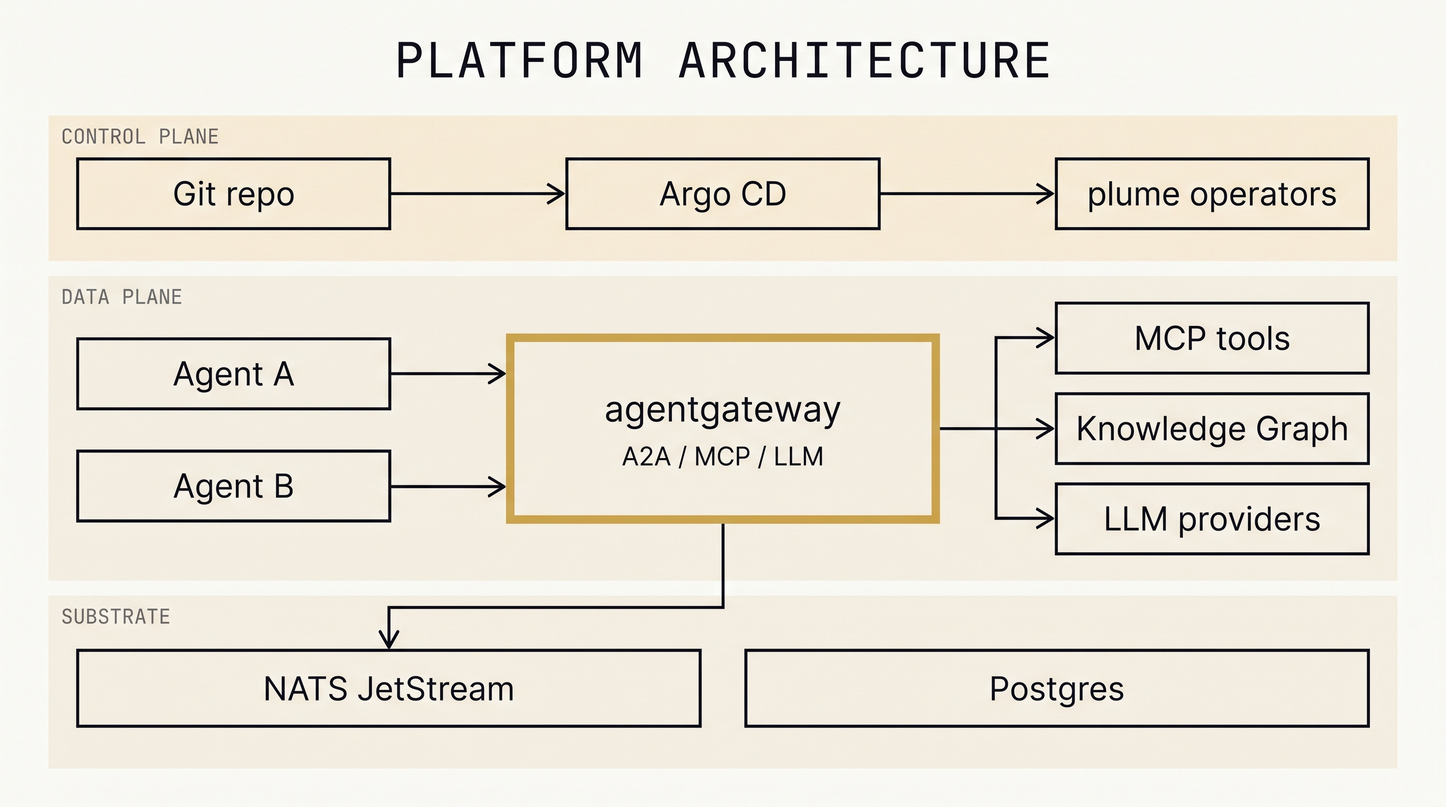
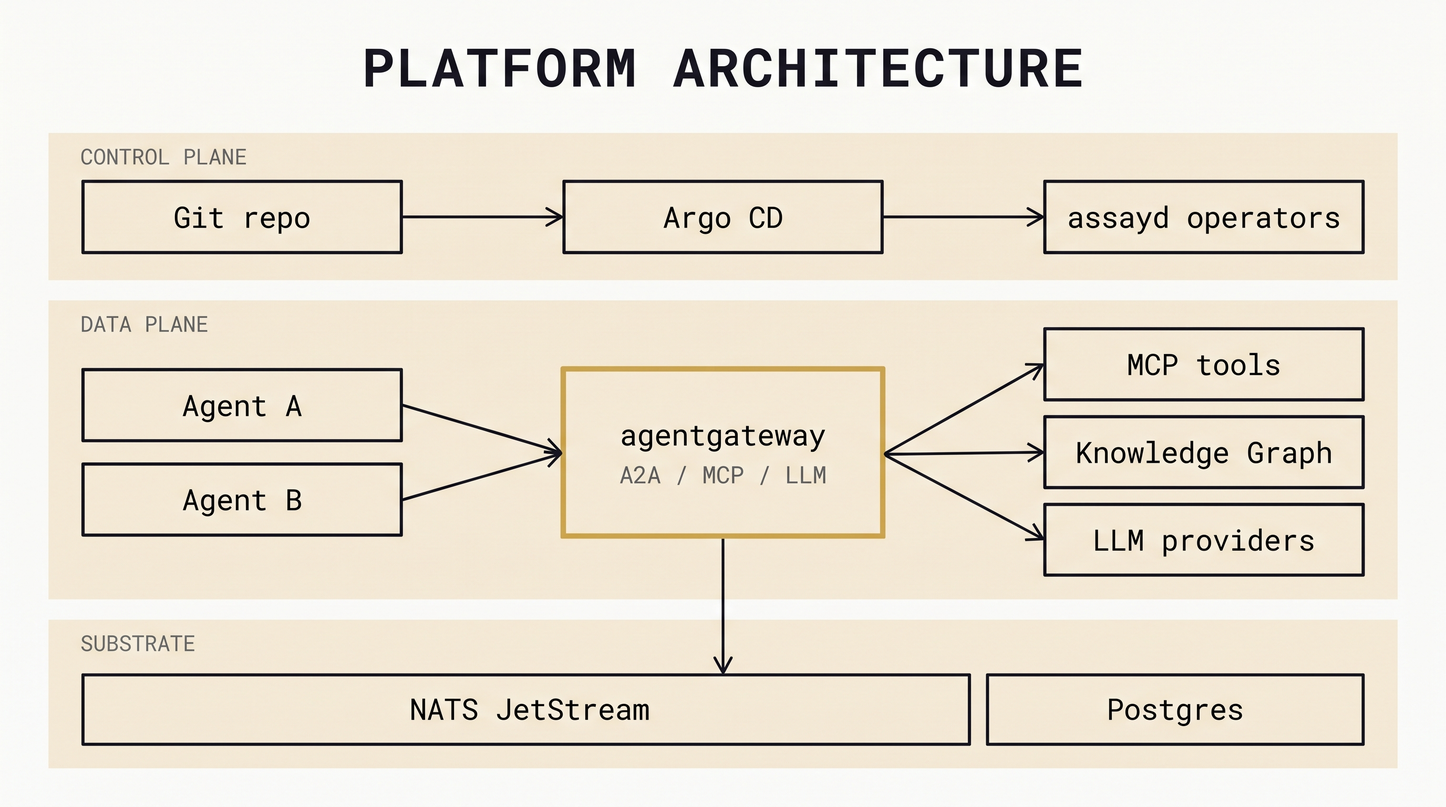
docs: regenerate the two stale plates, and fix what the audit found
Diagrams. Plates 01 and 07 said "plume" in the pixels. Regenerated with the
same tool that made the original set -- the backlot visualizer's nano_banana_pro
route, since the visualizer CLI's Gemini key still returns
API_KEY_SERVICE_BLOCKED exactly as prompts.md recorded -- from the prompts that
were already corrected at the rename. Both verified by opening them: plate 01
reads "assayd operators", plate 07 reads "the only assayd code". webp variants
rebuilt at 1600px to match the other six.

The warning block I had added to docs/diagrams/README.md is deleted rather than
updated. It was internal working notes -- a defect report and a two-option
decision request -- published in a public repo, and it stopped being true the
moment the plates were re-rendered. A short provenance line replaces it. The
risk row it justified in §19 is removed for the same reason: the risk is closed.

Then /audit-docs found three things I had missed by fixing §18 and stopping.

Line 5 -- the document's own Status field, the first metadata any reader sees --
still said "design phase complete · 27/27 component designs approved ...
Implementation may begin". Two claims false: designs 02 and 03 are both
"critique pending -- not approved" by their own Status lines, and there are 32
ADRs, not 26.

§20 said "Every claim above is backed by an ADR and a critique-passed design."
Critique-passed is not approved, and the two most central designs are neither.
[…]

Changed region(s): [[0.0312, 0.0312, 0.9688, 0.9375]]

diff --git a/docs/architecture.md b/docs/architecture.md
@@ -2,7 +2,7 @@
 
 > **assayd** is the project's permanent name, not a codename — ADR-0001 Amendment 1 records the rename from the "plume" working title (and "graphene" before that) as **done**, with `assayd.dev` authoritative and the API group. An earlier version of this line still called it "a neutral internal codename … rename before any public release is a tracked task", which was true when written and is now the first thing a reader of this document would get wrong. A rendered version with figures lives at `docs/architecture.html`; the plates live in `docs/diagrams/`.
 
-- **Status**: **design phase complete** · 2026-08-20 — 27/27 component designs approved, each through independent adversarial critique; 26 ADRs recorded. Implementation may begin.
+- **Status**: **superseded in part — read §18 before relying on this document.** Its original header said "design phase complete · 27/27 component designs approved, each through independent adversarial critique; 26 ADRs recorded. Implementation may begin." **Two of those are now false.** Designs **02 and 03** are `critique pending — not approved` by their own Status lines, and there are **32 ADRs**, not 26. ADR-0030 narrowed delivery to one end-to-end slice and demoted five designs to hypotheses. `docs/designs/README.md` arbitrates design status and a design's own Status line beats any summary, including this one.
 - **Thesis**: A radically lightweight, Kubernetes-native agent platform. The domain is a pluggable knowledge graph; everything else is an open standard with a thin binding.
 
 ## 00 · What v1.0 incorporates
@@ -59,6 +59,8 @@ Identity: SPIRE issues SVIDs to agent pods and the gateway; the platform IdP (Zi
 **Color rule in all figures** (see architecture.html): accent = assayd-built; grey = adopted open components. Very little is accent — that is the thesis.
 
 ## 03 · The API surface
+
+> **Designed, not shipped.** One CRD exists today: `Agent` (`config/crd/assayd.dev_agents.yaml`). The rest of this section is the target surface.
 
 | CRD | Declares | Reconciled by |
 |---|---|---|
@@ -414,6 +416,8 @@ kagent answers "how do I run an agent on k8s"; assayd answers "how do I run an a
 
 ## 17 · Weight budget — core tier
 
+> **Designed, not shipped.** The chart deploys one workload today — `assayd-agent-operator`. The budget below is the target.
+
 agent-operator 1 (the only assayd-code pod) · agentgateway 1–2 · SPIRE 2 · Zitadel 1 (on our Postgres) · NATS 1 · Postgres 1 · OpenObserve 1 ≈ **8 pods**.
 
 **Beyond core, as designed**: `plus` adds workflow-operator (a standing controller) + workflow-runtime (which scales 0→N with trigger registrations) — +2, OpenFGA with its co-located ext-authz adapter (+1), model-operator (+1), and optionally Argo and Phoenix. Enterprise adds tenant-operator (+1). Per managed knowledge graph: adapter + backend (2 workload pods). Generative serving adds KServe's `llmisvc` controller at plus tier and **+1 endpoint-picker (EPP) per inference pool** alongside the vLLM serving pods — the same workload category (design 25 A1). A hard-isolated tenant costs ~4–5 pods core-only (NATS, Postgres, Zitadel, OpenObserve and the gateway stay shared), +2–3 at plus.
@@ -452,11 +456,10 @@ Discipline: the differentiation only exists once P2/P3 ship — never polish the
 | Design ≠ validated | These plans survived adversarial review, not execution. First implementation will test what no review can: agentgateway policy-overlap behavior (research item R1, reproducing test), DBOS-in-Job resume, interpreter determinism |
 | Zitadel AGPL | used unmodified/self-hosted (fine); Keycloak profile exists for allergic enterprises |
 | **agentgateway's steward was never named here** | It is Apache-2.0 and **Linux Foundation-governed, under the Agentic AI Foundation** — co-founded by Anthropic, Block and OpenAI — rather than CNCF. Recorded as a risk **reduced**, not merely a difference: the most load-bearing external dependency in this stack sits in a neutral foundation alongside **MCP**, so the two contracts assayd is least able to replace are governed together. It is also the one dependency not on the CNCF track, and ADR-0015 Amendment 1 makes AAIF assayd's own target for that reason (`research/licensing-open-core-2026-09.md`) |
-| Diagrams carry a name the project no longer uses | Plates `01-architecture` and `07-what-runs` were rendered before the rename and still read "plume". Prompts and captions are corrected; **the images are not**, and they are embedded in `architecture.html`. Tracked in `docs/diagrams/README.md` |
 
 ## 20 · The decision record
 
-Every claim above is backed by an ADR and a critique-passed design. The corpus lives in the repo: `docs/decisions/` (27 ADRs), `docs/designs/` (27 designs + `reviews/`), `docs/research/` (12 dated notes).
+Most claims above are backed by an ADR and a design that survived adversarial critique — but **"critique-passed" is not "approved", and two central designs are neither**: 02 and 03 both read `critique pending`. Surviving a review is evidence about the prose, not about the component. The corpus lives in the repo: `docs/decisions/` (32 ADRs), `docs/designs/` (27 designs + `reviews/`), `docs/research/` (12 dated notes).
 
 ### ADRs
 

diff --git a/docs/diagrams/README.md b/docs/diagrams/README.md
@@ -17,19 +17,7 @@ Gallery artifact: https://claude.ai/code/artifact/90cd9501-5d83-4921-8822-4fce4c
 
 `.webp` variants (1600px) are the embed-sized copies used by the gallery.
 
-## ⚠ Plates 01 and 07 are STALE — they still say "plume"
-
-`01-architecture` reads **"plume operators"** in the control-plane band; `07-what-runs` reads **"the only plume code"** under `agent-operator`. The prompts below and the table above were corrected at the rename; **the rendered images were not**, and `01-architecture` is embedded in `architecture.html`.
-
-This is the failure ADR-0001 named in advance — a codename baked into something expensive to change. Text is cheap to rename with `sed`; a rendered image is not, which is exactly why the ADR said not to bake it in.
-
-**Regenerating needs a decision, not just a re-run.** These were produced with `nano_banana_pro` under the visualizer plugin's design system, so re-prompting reproduces the style but not deterministically — and there is **no editable source**, only prompts and pixels. Two options, and the second fixes the cause rather than the instance:
-
-1. **Re-prompt the two plates** from the corrected prompts. Fastest; keeps all eight visually consistent; leaves every future edit dependent on an image model.
-2. **Author these two as SVG.** Deterministic, diffable, and renameable by editing text — but breaks visual consistency with the other six until they follow.
-
-Until one is chosen, **do not treat plates 01 and 07 as current**, and prefer `architecture.md` §02 and §17, which say the same things in text and are correct.
-
+Plates `01-architecture` and `07-what-runs` were re-rendered on 2026-09-10 from the prompts below, after the rename; the other six are unchanged from the original set.
 
 ## Validation notes (each plate was opened and checked)
 
